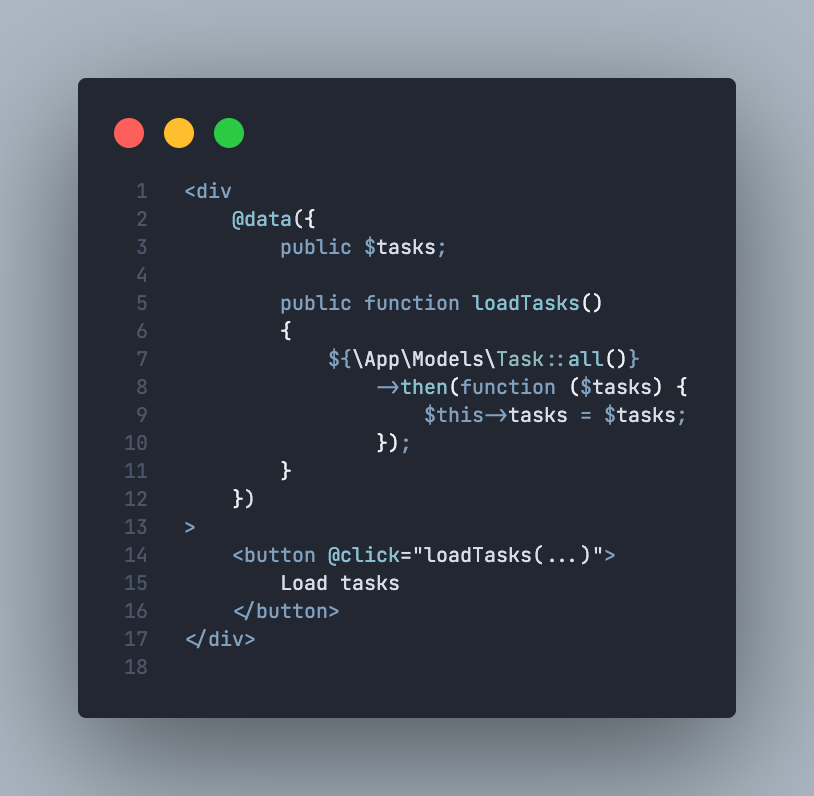
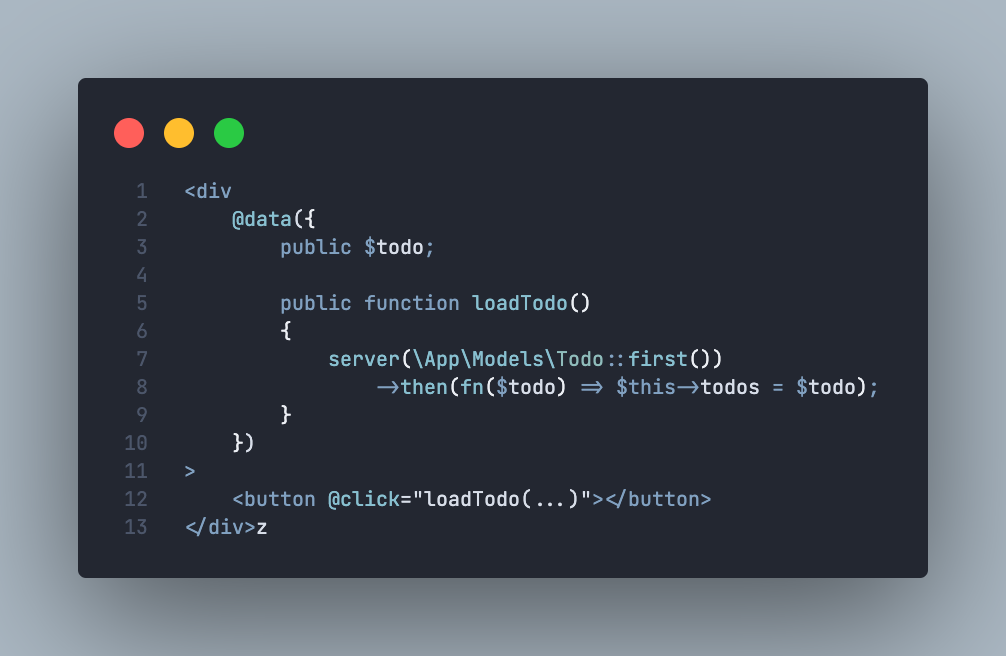
feat: reimplemented s3i syntax.

diff --git a/stubs/special_functions.php b/stubs/special_functions.php
@@ -1,0 +1,87 @@
+<?php
+
+use Closure as func;
+
+/**
+ * Interface Promise.
+ *
+ * @author   ErickJMenezes <erickmenezes.dev@gmail.com>
+ * @template T
+ */
+readonly class Promise
+{
+    public Promise $prototype;
+
+    /**
+     * Creates a new Promise.
+     *
+     * @param (func((func(T | self<T> $value): void) $resolve, (func(?mixed $reason): void) $reject): void) $executor
+     *                                A callback used to initialize the promise. This callback is passed two
+     *                                arguments: a resolve callback used to resolve the promise with a value or the
+     *                                result of another promise, and a reject callback used to reject the promise with
+     *                                a provided reason or error.
+     */
+    public function __construct(
+        private func $executor
+    ) {}
+
+    /**
+     * Creates a Promise that is resolved with an array of results when all the provided
+     * Promises resolve, or rejected when any Promise is rejected.
+     *
+     * @param array<\Promise> $values
+     *
+     * @return \Promise
+     * @author ErickJMenezes <erickmenezes.dev@gmail.com>
+     */
+    public static function all(array $values): Promise {}
+
+    /**
+     * Creates a Promise that is resolved or rejected when any of the provided Promises are resolved or rejected.
+     *
+     * @param array<\Promise> $values
+     *
+     * @return \Promise
+     * @author ErickJMenezes <erickmenezes.dev@gmail.com>
+     */
+    public static function race(array $values): Promise {}
+
+    /**
+     * Attaches callbacks for the resolution and/or rejection of the Promise.
+     *
+     * @param (callable(T $value): (TResult1 | null))           $onfulfilled The callback to execute when the Promise is
+     *                                                                       resolved.
+     * @param null|(callable(?mixed $value): (TResult2 | null)) $onrejected  The callback to execute when the Promise is
+     *                                                                       rejected.
+     *
+     * @return self<TResult1|TResult2> A Promise for the completion of which every callback is executed.
+     * @author   ErickJMenezes <erickmenezes.dev@gmail.com>
+     *
+     * @template TResult1
+     * @template TResult2
+     */
+    public function then(callable $onfulfilled, ?callable $onrejected = null): self {}
+
+    /**
+     * Attaches a callback for only the rejection of the Promise.
+     *
+     * @param (callable(T): (TResult | null)) $onrejected The callback to execute when the Promise is rejected.
+     *
+     * @return self<T | TResult> A Promise for the completion of the callback.
+     * @author   ErickJMenezes <erickmenezes.dev@gmail.com>
+     *
+     * @template TResult
+     */
+    public function catch(callable $onrejected): self {}
+}
+
+/**
+ * Execute a statement in the server and get the returned value.
+ *
+ * @param T|(func(): T) $code
+ *
+ * @return Promise<T>|(func(...$args): Promise<T>)
+ * @author   ErickJMenezes <erickmenezes.dev@gmail.com>
+ * @template T
+ */
+function server(mixed $code): mixed {}

diff --git a/src/Javascript/Compiler/Compiler.php b/src/Javascript/Compiler/Compiler.php
@@ -11,13 +11,13 @@ use PhpParser\Node\Scalar\String_;
 use PhpParser\Node\Stmt\Property;
 use PhpParser\ParserFactory;
 use Pineblade\Pineblade\Javascript\Compiler\Processors\PropertyValueInjectionProcessor;
-use Pineblade\Pineblade\Javascript\Compiler\Processors\VariableVariableProcessor;
+use Pineblade\Pineblade\Javascript\Compiler\Processors\ServerFunctionProcessor;
 use Pineblade\Pineblade\Javascript\Compiler\Exceptions\UnsupportedSyntaxException;
 
 class Compiler
 {
     public function __construct(
-        private readonly VariableVariableProcessor $variableVariableProcessor,
+        private readonly ServerFunctionProcessor $serverFunctionProcessor,
         private readonly PropertyValueInjectionProcessor $injectValueProcessor,
     )
     {
@@ -221,8 +221,7 @@ class Compiler
                     Scope::setVar($nodeValue);
                     return "let {$nodeValue}";
                 } else {
-                    return $this->variableVariableProcessor
-                        ->process($node, $this);
+                    return $this->compileNode($node->name, true);
                 }
             }
             case Node\Expr\Cast\Object_::class:
@@ -241,6 +240,10 @@ class Compiler
                 $args = '('.implode(', ', $args).')';
                 $args = str_replace('(...)', '', $args);
                 if ($node instanceof Node\Expr\FuncCall) {
+                    if ($node->name instanceof Node\Name && $node->name->toCodeString() === 'server') {
+                        return $this->serverFunctionProcessor
+                            ->process($node, $this);
+                    }
                     if ($node->name instanceof Node\Expr\Closure || $node->name instanceof Node\Expr\ArrowFunction) {
                         return "({$funcName}){$args}";
                     }
@@ -331,7 +334,7 @@ class Compiler
             }
             case Node\Stmt\Class_::class:
             {
-                $classBody = "{{$this->compileNodes($node->stmts, implodeChar: ',')}}";
+                $classBody = Scope::obj(fn() => "{{$this->compileNodes($node->stmts, implodeChar: ',')}}");
                 if ($node->isAnonymous()) {
                     return $classBody;
                 }
@@ -440,6 +443,10 @@ class Compiler
             case Node\Const_::class:
             {
                 return "const {$this->compileNode($node->name)} = {$this->compileNode($node->value)}";
+            }
+            case Node\Stmt\Label::class:
+            {
+                return "{$this->compileNode($node->name, true)}:";
             }
             default:
             {

diff --git a/src/Javascript/Compiler/Processors/ServerFunctionProcessor.php b/src/Javascript/Compiler/Processors/ServerFunctionProcessor.php
@@ -7,32 +7,41 @@ use PhpParser\Node;
 use PhpParser\PrettyPrinter\Standard as PhpPrinter;
 use Pineblade\Pineblade\Javascript\Compiler\Compiler;
 
+use Pineblade\Pineblade\Javascript\Compiler\Scope;
+
 use function Pineblade\Pineblade\Helpers\s3i_path;
 
-class VariableVariableProcessor implements Processor
+readonly class ServerFunctionProcessor implements Processor
 {
-    private readonly Filesystem $filesystem;
+    private Filesystem $filesystem;
 
     public function __construct(
-        private readonly PhpPrinter $printer,
+        private PhpPrinter $printer,
     )
     {
         $this->filesystem = new Filesystem();
     }
 
-    public function process(Node|Node\Expr\Variable $node, Compiler $compiler): string
+    public function process(Node|Node\Expr\FuncCall $node, Compiler $compiler): string
     {
+        if (empty($node->args)) {
+            return 'null';
+        }
+
         $this->createCacheDirectory();
 
-        $expression = $this->printer->prettyPrintExpr($node->name);
+        $expression = $this->printer->prettyPrintExpr($node->args[0]->value);
+
         $hash = md5($expression);
 
-        $this->cacheScript($expression, $hash, $node);
+        $this->cacheScript($expression, $hash, $node->args[0]->value);
+
+        $thisPrefix = Scope::withinObject() ? 'this.' : '';
 
         if ($node->name instanceof Node\Expr\Closure || $node->name instanceof Node\Expr\ArrowFunction) {
-            return "((..._s3iArgs) => this.\$s3i('{$hash}', _s3iArgs))";
+            return "((..._s3iArgs) => {$thisPrefix}\$s3i('{$hash}', _s3iArgs))";
         }
-        return "this.\$s3i('{$hash}')";
+        return "{$thisPrefix}\$s3i('{$hash}')";
     }
 
     private function createCacheDirectory(): void
@@ -42,7 +51,7 @@ class VariableVariableProcessor implements Processor
         }
     }
 
-    private function cacheScript(string $expression, string $hash, Node\Expr\Variable $node): void
+    private function cacheScript(string $expression, string $hash, Node $node): void
     {
         $filePath = s3i_path("$hash.php");
 

diff --git a/src/PinebladeServiceProvider.php b/src/PinebladeServiceProvider.php
@@ -12,7 +12,7 @@ use Pineblade\Pineblade\Controllers\S3IController;
 use Pineblade\Pineblade\Javascript\AlpineDirctivesCompiler;
 use Pineblade\Pineblade\Javascript\Builder\Strategy;
 use Pineblade\Pineblade\Javascript\Compiler\Processors\PropertyValueInjectionProcessor;
-use Pineblade\Pineblade\Javascript\Compiler\Processors\VariableVariableProcessor;
+use Pineblade\Pineblade\Javascript\Compiler\Processors\ServerFunctionProcessor;
 use Pineblade\Pineblade\Javascript\Compiler\Compiler;
 
 class PinebladeServiceProvider extends ServiceProvider
@@ -48,12 +48,12 @@ class PinebladeServiceProvider extends ServiceProvider
     private function registerJavascriptCompiler(): void
     {
         $this->app->bind(
-            VariableVariableProcessor::class,
-            fn() => new VariableVariableProcessor(new Standard()),
+            ServerFunctionProcessor::class,
+            fn() => new ServerFunctionProcessor(new Standard()),
         );
         $this->app->bind(PropertyValueInjectionProcessor::class);
         $this->app->singleton(Compiler::class, fn($app) => new Compiler(
-            $app->make(VariableVariableProcessor::class),
+            $app->make(ServerFunctionProcessor::class),
             $app->make(PropertyValueInjectionProcessor::class),
         ));
         //

diff --git a/src/Javascript/Compiler/Scope.php b/src/Javascript/Compiler/Scope.php
@@ -10,6 +10,7 @@ class Scope
     private static string $name = self::GLOBAL;
     private static string $hash = self::GLOBAL;
     private static array $scopes = [];
+    private static bool $objectScope = false;
 
     /**
      * Enters a scope
@@ -96,5 +97,20 @@ class Scope
         self::$scopes = [];
         self::$name = self::GLOBAL;
         self::$hash = self::GLOBAL;
+    }
+
+    public static function obj(Closure $callback): mixed
+    {
+        try {
+            self::$objectScope = true;
+            return $callback();
+        } finally {
+            self::$objectScope = false;
+        }
+    }
+
+    public static function withinObject(): bool
+    {
+        return self::$objectScope;
     }
 }

diff --git a/tests/Unit/Javascript/Compiler/CompilerTest.php b/tests/Unit/Javascript/Compiler/CompilerTest.php
@@ -179,9 +179,13 @@ dataset('syntax-features', [
         'class Foo extends Bar {}',
         'class Foo extends Bar {}'
     ],
-    'custom variable variable handler' => [
-        '${Date::now()}',
-        "this.\$s3i('".md5('Date::now()')."')"
+    'server function handler' => [
+        'server(Date::now())',
+        "\$s3i('".md5('Date::now()')."')"
+    ],
+    'obj scope server function handler' => [
+        'new class { public function i() { server(Date::now()); } }',
+        "{i() {this.\$s3i('".md5('Date::now()')."')}}"
     ],
     'arrow function iife call' => [
         '(fn() => null)()',

diff --git a/README.md b/README.md
@@ -52,10 +52,9 @@ Used to inject blade variables with the same name as @data property values.
 
 ![inject-1.png](docs%2Fimg%2Freadme-snaps%2Finject-1.png)
 
-## Special `${}` Variable variables syntax.
+## Special `server` function.
 
-You probably know the PHP Variable variables syntax, right?
-Here we use this syntax to resolve expressions server-side!!!
+This is function allows you to evaluate expressions server-side!
 
 You can easily switch client-side and server side contexts with this special syntax.
 All expressions return a promise, so you need to wait them with the `@` operator, wait using the Promise `->then()` method.
